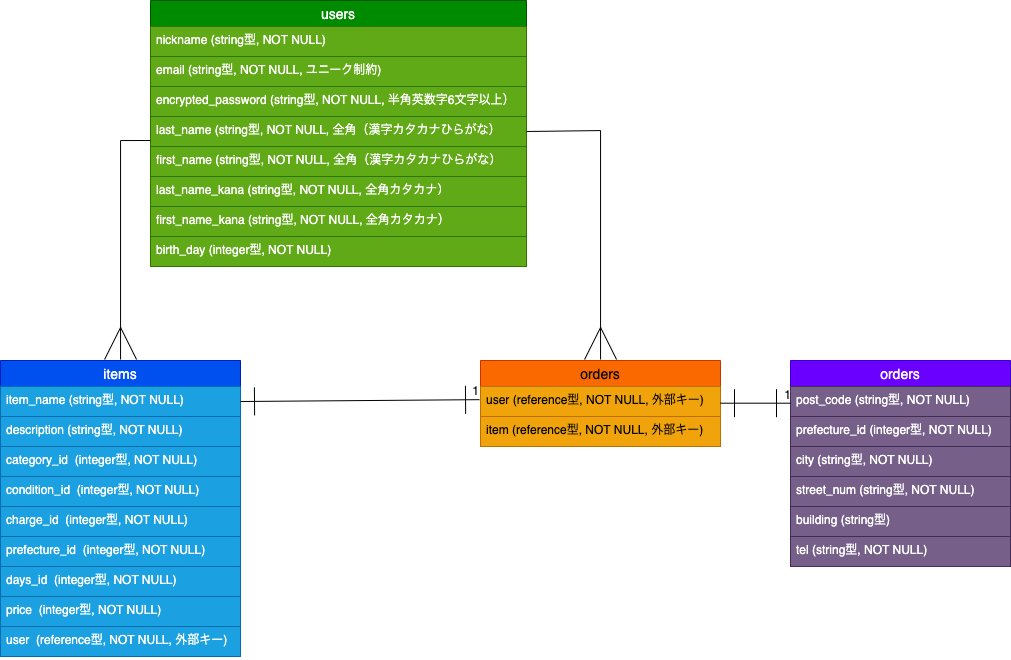
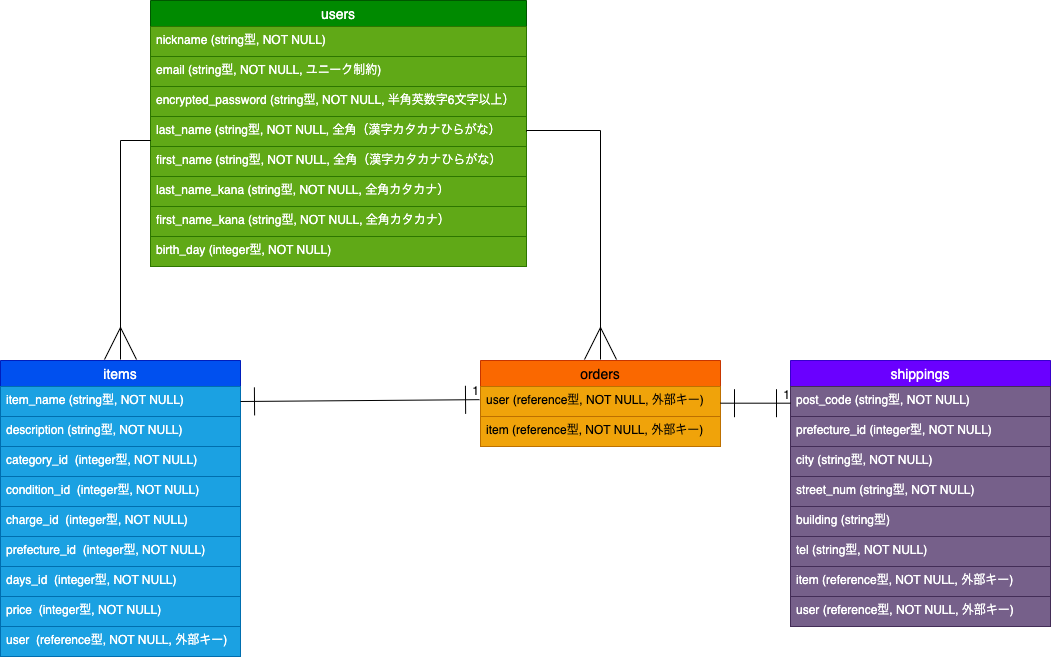
修正点

diff --git a/README.md b/README.md
@@ -3,16 +3,16 @@
 
 ## users テーブル
 
-| Column                | Type    | Option         |
-| --------------------- | ------- | -------------- |
-| nickname              | string  | null: false    | 
-| email                 | string  | null: false    |
-| encrypted_password    | string  | null: false    | ＊デフォルト
-| last_name             | string  | null: false    |
-| first_name            | string  | null: false    |
-| first_name_kana       | string  | null: false    |
-| last_name_kana        | string  | null: false    |
-| birth_day             | date    | null: false    |
+| Column                | Type    | Option                        |
+| --------------------- | ------- | ----------------------------- |
+| nickname              | string  | null: false                   | 
+| email                 | string  | null: false, uniqueness: true |
+| encrypted_password    | string  | null: false                   | ＊デフォルト
+| last_name             | string  | null: false                   |
+| first_name            | string  | null: false                   |
+| first_name_kana       | string  | null: false                   |
+| last_name_kana        | string  | null: false                   |
+| birth_day             | date    | null: false                   |
 
 ### Association
 
@@ -70,6 +70,8 @@ extend ActiveHash::Associations::ActiveRecordExtensions
 | street_num      | string      | null: false                     |
 | building        | string      |                                 |
 | tel             | string      | null: false                     |
+| user            | reference   | null: false, foreign_key        |
+| item            | reference   | null: false, foreign_key        |
 
 ### Association
 
